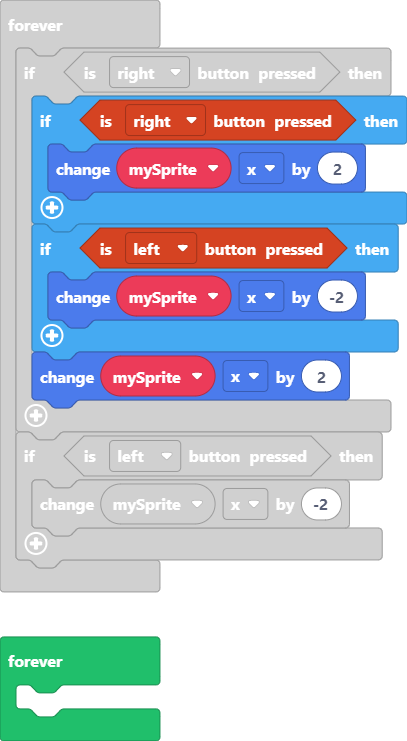
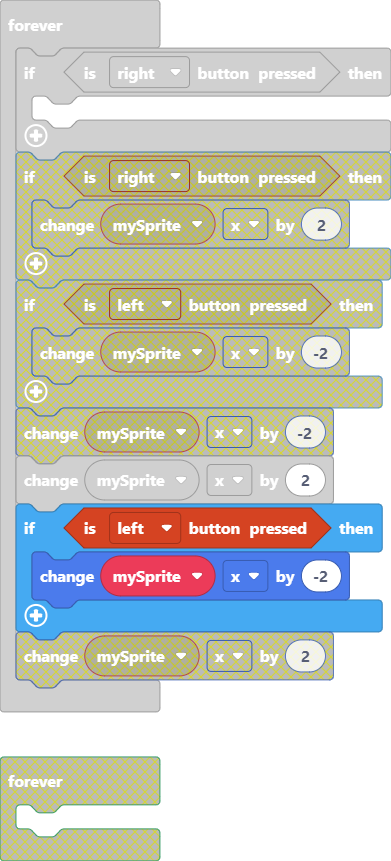
Update main.blocks, main.ts

diff --git a/main.ts b/main.ts
@@ -1,18 +1,9 @@
 let mySprite = sprites.create(assets.image`dah Wizard`, SpriteKind.Player)
 forever(function () {
     if (controller.right.isPressed()) {
-        if (controller.right.isPressed()) {
-            mySprite.x += 2
-        }
-        if (controller.left.isPressed()) {
-            mySprite.x += -2
-        }
         mySprite.x += 2
     }
     if (controller.left.isPressed()) {
         mySprite.x += -2
     }
-})
-forever(function () {
-	
 })
